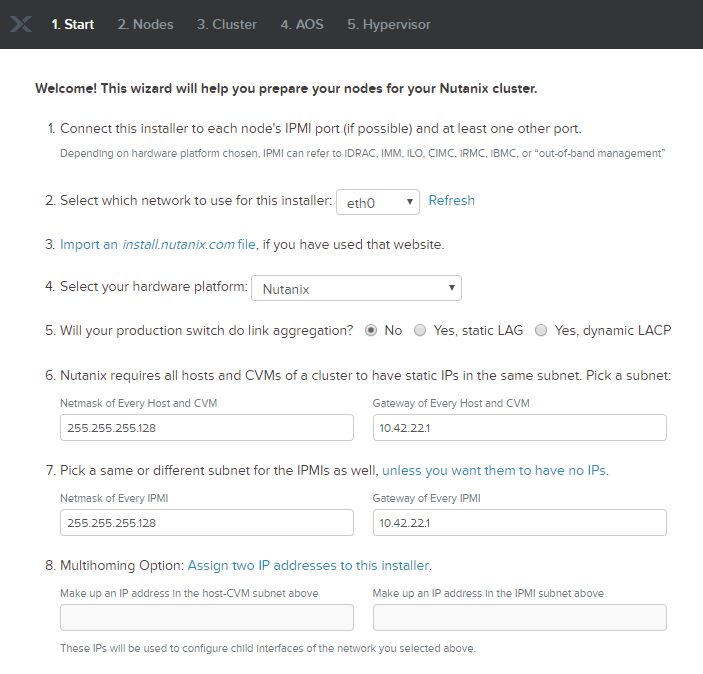
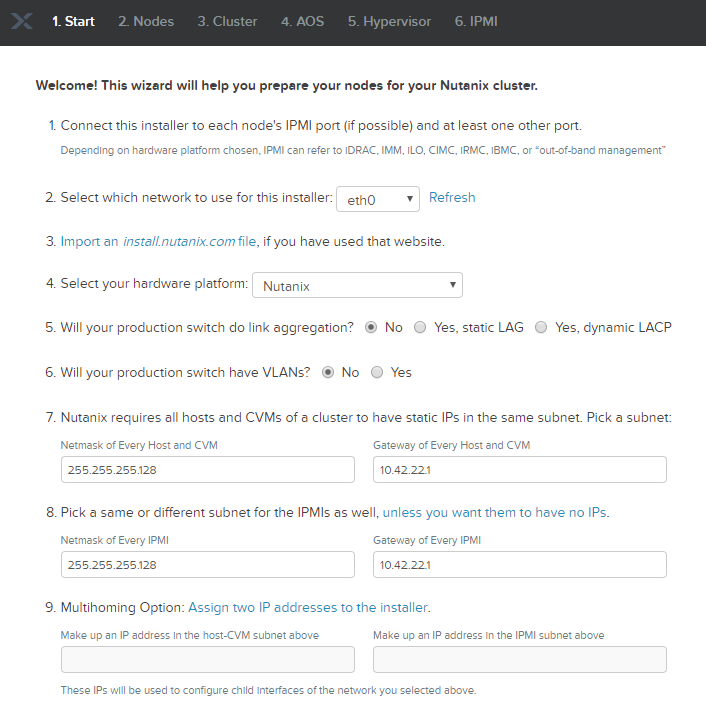
Foundation 4.3.4 and X-Ray 3.4 Updates

diff --git a/xray/xray.rst b/xray/xray.rst
@@ -42,32 +42,33 @@ The following links are provided for reference and not required to complete the 
 Configuring Target Cluster Networks
 +++++++++++++++++++++++++++++++++++
 
-Log into **Prism** on your 3-node **POC** cluster (10.42.\ *XYZ*\ .37).
+Log into **Prism Element** on the **3-node** cluster created in the previous lab (10.42.\ *XYZ*\ .37). This cluster will be used as an X-Ray target, meaning it will run worker VMs. It will **not** run the X-Ray VM.
 
 Open **Prism > VM > Table** and click **Network Config**.
 
 .. figure:: images/0.png
 
-Before creating the VM, we must first create a virtual network to assign to the Foundation VM. The network will use the Native VLAN assigned to the physical uplinks for all 4 nodes in the block.
+We will use the **Secondary** network VLAN for communication between the X-Ray VM and X-Ray worker VMs. This is accomplished via "Zero Configuration" networking, as the 3-node cluster **Secondary** and 1-node cluster **Secondary** networks are the same Layer 2 network and there is no DHCP.
 
 Click **Virtual Networks > Create Network**.
 
-Fill out the following fields and click **Save**:
-
-- **Name** - Primary
-- **VLAD ID** - 0
-
-Click **Create Network**. Using the `Cluster Details`_ spreadsheet, fill out the following fields and click **Save**:
+Using the `Cluster Details`_ spreadsheet, fill out the following fields and click **Save**:
 
 - **Name** - Secondary
 - **VLAD ID** - *<Secondary VLAN ID>*
 
 .. figure:: images/1.png
 
+.. note::
+
+   You can create the VLAN 0 network on this cluster as well, though it is not required for this exercise.
+
 Creating X-Ray VM
 +++++++++++++++++
 
-Log into **Prism** on your **NHTLab** 1-node cluster (10.42.\ *XYZ*\ .32).
+Next you will deploy the X-Ray VM outside of your cluster targeted for testing. This is to ensure X-Ray tests that perform power operations on hosts don't inadvertently power off the X-Ray VM itself.
+
+Log into **Prism Element** on your **1-node** cluster (10.42.\ *XYZ*\ .32).
 
 In **Prism > VM > Table** and click **+ Create VM**.
 
@@ -80,7 +81,7 @@ Fill out the following fields and click **Save**:
 - Select **+ Add New Disk**
 
   - **Operation** - Clone from Image Service
-  - **Image** - X-Ray
+  - **Image** - X-Ray.qcow2
   - Select **Add**
 - Select **Add New NIC**
 
@@ -93,27 +94,29 @@ Fill out the following fields and click **Save**:
 
 Select your **XRay** VM and click **Power on**.
 
+The X-Ray VM is created with 2 NICs. The **Primary** NIC allows for access to the web interface from any other routable network, and the **Secondary** network is only for communication between X-Ray and its worker VMs deployed on target clusters.
+
 .. note::
 
-  At the time of writing, X-Ray 3.3 is the latest available version. The URL for the latest X-Ray OVA & QCOW2 images can be downloaded from the `Nutanix Portal <https://portal.nutanix.com/#/page/static/supportTools>`_.
+  At the time of writing, X-Ray 3.4 is the latest available version. The URL for the latest X-Ray OVA & QCOW2 images can be downloaded from the `Nutanix Portal <https://portal.nutanix.com/#/page/static/supportTools>`_.
 
 Once the VM has started, click **Launch Console**.
 
-Click the **Network** icon in the upper right-hand corner of the XRay VM console and select **Ethernet (eth0) Connected > Wired Settings**.
+Click **Applications > System Tools > Settings** in the upper-left hand corner of the X-Ray VM console.
+
+.. figure:: images/2b.png
+
+Under **Network**, select :fa:`cog` under **Ethernet (eth0)**.
 
 .. note::
 
   It is critical that you select the network adapter assigned to the **Primary** network (you can confirm by comparing the MAC address in the VM console to the MAC address shown in Prism). We will use this network to assign a static IP to the X-Ray VM to access the web interface. We will NOT assign an address to the **Secondary** network adapter. This network will be used for zero configuration communication between the X-Ray VM and client VMs. This approach is helpful when DHCP isn't available or the DHCP scope isn't large enough to support X-Ray testing.
 
-.. figure:: images/2.png
-
-Select **Ethernet (eth0)** and click the **Gear Icon**.
-
 .. figure:: images/3.png
 
 Select **IPv4**. Using the `Cluster Details`_ spreadsheet, fill out the following fields and click **Apply**:
 
-- **Addresses** - Manual
+- **IPv4 Method** - Manual
 - **Address** - 10.42.\ *XYZ*\ .42
 - **Netmask** - 255.255.255.128
 - **Gateway** - 10.42.\ *XYZ*\ .1
@@ -125,7 +128,7 @@ Use the toggle switch to turn the **eth0** adapter off and back on to ensure the
 
 .. raw:: html
 
-  <strong><font color="red">Close the XRay VM console.</font></strong>
+  <strong><font color="red">Close the X-Ray VM console.</font></strong>
 
 Configuring X-Ray
 +++++++++++++++++
@@ -154,7 +157,9 @@ Click **Done**.
 
   If deploying X-Ray in an environment without internet access, tokens can be generated at https://my.nutanix.com/#/page/xray.
 
-Select **Targets** from the navigation bar and click **+ New Target**. Fill out the following fields and click **Next**:
+Next you will configure your 3-node cluster as the target for running X-Ray tests.
+
+Select **Targets** from the navigation bar and click **Add Target**. Fill out the following fields and click **Next**:
 
 - **Name** - *<3-Node Cluster Name>*
 - **Manager Type** - Prism
@@ -194,11 +199,11 @@ Running X-Ray Tests
 
 While X-Ray offers many testing options that evaluate critical Day 2+ scenarios, for lack of time, we will utilize a simple microbenchmark test in this exercise.
 
-Select **Tests** from the navigation bar and select **Four Corners Microbenchmark**.
+Select **Tests** from the navigation bar and select **Four Corners Microbenchmark > View & Run Test**.
 
 .. figure:: images/17.png
 
-Review the test description, then select your **POC-Cluster** under **Targets** and click **Add to Queue**.
+Review the test description, then select your **Test-Cluster** under **Choose test target** and click **Run Test**.
 
 .. figure:: images/18.png
 
@@ -206,13 +211,13 @@ Review the test description, then select your **POC-Cluster** under **Targets** 
 
   X-Ray can run one test per target at a time. Many tests can be queued for a single target, allowing X-Ray to automatically run through multiple tests without requiring manual intervention. Through automation, X-Ray can drastically decrease the amount of time to conduct a POC.
 
-Select **Results** from the navigation bar and select the **Four Corners Microbenchmark** under **In Progress Tests**.
+Select **Results** from the navigation bar and select the **In Progress** **Four Corners Microbenchmark** on your **Test-Cluster**.
+
+Click **Running** under **Status** for additional details on the running test.
 
 .. figure:: images/19.png
 
-Click **In progress** for additional details on the running test.
-
-When the test reaches the **Run** phase, log into Prism on your 3-node cluster to monitor VM performance during the test.
+When the test reaches the **Run** phase (**Phase 3 of 4**), log into Prism on your 3-node cluster to monitor VM performance during the test.
 
 .. figure:: images/20.png
 
@@ -220,7 +225,7 @@ When the test reaches the **Run** phase, log into Prism on your 3-node cluster t
 
   High storage latency is expected during the "pre-filling" stage prior to running the target workloads as X-Ray worker VMs are writing sequential 1MB blocks to their disks to ensure the tests do not read only zeroes.
 
-Upon completion of the test, select the **POC-Cluster Four Corners Microbenchmark** now located under **Completed Tests**.
+Upon completion of the test, select the **Finished Four Corners Microbenchmark** now located under **Results > All Results**.
 
 .. figure:: images/21.png
 
@@ -242,19 +247,21 @@ Download the following exported X-Ray test results:
 - :download:`Competitor Big Data Ingest Results<xray-big-data-competitor.zip>`
 - :download:`Nutanix Big Data Ingest Results<xray-big-data-nutanix.zip>`
 
-Select :fa:`cog` **> Import Test Results** from the navigation bar.
+Select :fa:`cog` **> Import Test Results Bundle** from the navigation bar.
 
-Click **Choose File** and select the Nutanix test results .zip file previously downloaded. Click **Import**.
+Click **Choose File** and select the Nutanix test results .zip file previously downloaded. Click **Upload**.
 
 .. figure:: images/23.png
 
 Repeat to import the Competitor test results .zip file.
 
-Select **Analyses** from the navigation bar and click **Create Analysis**.
+Refresh the **Results** page and note **NTNX** and **Competitor-X** Big Data Ingestion test results now appear in the list as finished.
+
+Select both tests and click **Create Comparison** to generate a comparison of the two sets of results.
 
 .. figure:: images/24.png
 
-Select the 2 **BigData Ingestion** results and click **Create**.
+Under **My Comparisons**, select the **Comparative Result Name** of your newly created comparison.
 
 .. figure:: images/25.png
 

diff --git a/groupfoundation/foundation.rst b/groupfoundation/foundation.rst
@@ -79,12 +79,14 @@ During the remainder of the exercise, your team will:
 - Install the Foundation VM on Node D
 - Use Foundation to image Nodes A, B, and C and create a 3 node cluster
 
-For the complete steps used to stage the environment, refer to :ref:`diyfoundation_lab`.
+.. note::
+
+   For the complete steps used to stage the environment, refer to the :ref:`diyfoundation_lab` Practice Lab.
 
 Installing Foundation
 +++++++++++++++++++++
 
-Open \https://*<NODE D CVM IP>*:9440 in your browser and log in with the following credentials:
+Open \https://*<CVM IP of NODE D>*:9440 in your browser and log in with the following credentials:
 
 - **Username** - admin
 - **Password** - techX2019!
@@ -102,12 +104,20 @@ Fill out the following fields and click **Save**:
 - **Name** - Primary
 - **VLAD ID** - 0
 
+.. note::
+
+   Using VLAN 0 (referred to as an **Untagged** or **Access** network) is equivalent to running a Foundation VM on your laptop, with a bridged network connection to your physical Ethernet adapter, plugged into a flat, unmanaged switch connected to your Nutanix block being imaged.
+
 Click **Create Network**. Using the `Cluster Details`_ spreadsheet, fill out the following fields and click **Save**:
 
 - **Name** - Secondary
 - **VLAD ID** - *<Secondary VLAN ID>*
 
 .. figure:: images/00.png
+
+.. note::
+
+   The **Secondary** network will be used later in the :ref:`groupxray_lab` lab.
 
 In **Prism > VM > Table** and click **+ Create VM**.
 
@@ -120,7 +130,7 @@ Fill out the following fields and click **Save**:
 - Select **+ Add New Disk**
 
   - **Operation** - Clone from Image Service
-  - **Image** - Foundation
+  - **Image** - Foundation.qcow2
   - Select **Add**
 - Select **Add New NIC**
 
@@ -131,7 +141,7 @@ Select your **Foundation** VM and click **Power on**.
 
 .. note::
 
-  At the time of writing, Foundation 4.3.1 is the latest available version. The URL for the latest Foundation VM QCOW2 image can be downloaded from the `Nutanix Portal <https://portal.nutanix.com/#/page/foundation>`_.
+  At the time of writing, Foundation 4.3.4 is the latest available version. The URL for the latest Foundation VM QCOW2 image can be downloaded from the `Nutanix Portal <https://portal.nutanix.com/#/page/foundation>`_.
 
   **Unless otherwise directed by support, always use the latest version of Foundation.**
 
@@ -155,7 +165,7 @@ Select **eth0** and press **Return**.
 
 Using the `Cluster Details`_ spreadsheet, replace the octet(s) that correspond to your HPOC network, fill out the following fields, select **OK** and press **Return**:
 
-- **Use DHCP** - Press **Space** to de-select
+- Un-select **Use DHCP** by pressing **Space**
 - **Static IP** - *<Foundation VM IP>*
 - **Netmask** - 255.255.255.128
 - **Gateway** - *<Gateway IP>*
@@ -194,6 +204,12 @@ On the **Start** page, fill out the following fields:
 - **Select which network to use for this installer** - eth0
 - **Select your hardware platform** - Nutanix
 - **Will your production switch do link aggregation?** - No
+- **Will your production switch have VLANs** - No
+
+.. note::
+
+   Selecting **Yes** will allow you to tag the CVM/Hypervisor VLAN as part of the installation, saving additional steps post-Foundation for readying the cluster to cutover to a production network. It is common for the Ethernet uplinks for each node to be connected to trunked ports tagged for several VLANs (CVM/Hypervisor network, user VM networks, backup network, etc.).
+
 - **Netmask of Every Host and CVM** - 255.255.255.128
 - **Gateway of Every Host and CVM** - 10.42.\ *XYZ*\ .1
 - **Netmask of Every IPMI** - 255.255.255.128
@@ -231,6 +247,10 @@ Fill out the following fields and click **Add Nodes**:
 
 Using the `Cluster Details`_ spreadsheet, fill out the following fields for **Nodes A, B, and C ONLY** and click **Next**:
 
+.. note::
+
+  Use **Tools > Range Autofill** to quickly specify Node IPs. Specify the first IP in the field at the top of the table to provide enumerated values for the entire column.
+
 - **Node** - *<Node Position>*
 - **IPMI MAC** - *<IPMI MAC>*
 - **IPMI IP** - *<IPMI IP>*
@@ -239,10 +259,6 @@ Using the `Cluster Details`_ spreadsheet, fill out the following fields for **No
 - **Hypervisor Hostname** - *<Hypervisor Hostname>*
 
 .. figure:: images/10.png
-
-.. note::
-
-  Use **Tools > Range Autofill** to quickly specify Node IPs. Specify the first IP in the field at the top of the table to provide enumerated values for the entire column.
 
 .. note::
 
@@ -273,7 +289,7 @@ Using the `Cluster Details`_ spreadsheet, replace the octet(s) that correspond t
 
 .. figure:: images/11.png
 
-Download your desired AOS package from http://10.42.8.50/aos/.
+From within the Foundation VM console, download your desired AOS package from http://10.42.194.11/workshop_staging/nht/.
 
 By default, Foundation does not have any AOS or hypervisor images. To upload AOS or hypervisor files, click **Manage AOS Files**.
 
@@ -285,7 +301,11 @@ Click **+ Add > Choose File**. Select your downloaded *nutanix_installer_package
 
 .. note::
 
-  If downloading the AOS package within the Foundation VM, the .tar.gz package can also be moved to ~/foundation/nos rather than uploaded to Foundation through the web UI. After moving the package into the proper directory, click **Manage AOS Files > Refresh**.
+  If downloading the AOS package within the Foundation VM, the .tar.gz package can also be moved to ~/foundation/nos rather than uploaded to Foundation through the web UI.
+
+  .. figure:: images/12.png
+
+  After moving the package into the proper directory, click **Manage AOS Files > Refresh** to discover the manually staged AOS package.
 
 After the upload completes, click **Close**. Click **Next**.
 

diff --git a/diyfoundation/diyfoundation.rst b/diyfoundation/diyfoundation.rst
@@ -116,11 +116,11 @@ Fill out the following fields and click **Save**:
 - **Image Type** - Disk
 - **Storage Container** - default-container
 - Select **From URL**
-- **Image Source** - http://download.nutanix.com/foundation/foundation-4.3.1/Foundation_VM-4.3.1-disk-0.qcow2
+- **Image Source** - http://download.nutanix.com/foundation/foundation-4.3.1/Foundation_VM-4.3.4-disk-0.qcow2
 
 .. note::
 
-  At the time of writing, Foundation 4.3.1 is the latest available version. The URL for the latest Foundation VM QCOW2 image can be downloaded from the `Nutanix Portal <https://portal.nutanix.com/#/page/foundation>`_.
+  At the time of writing, Foundation 4.3.4 is the latest available version. The URL for the latest Foundation VM QCOW2 image can be downloaded from the `Nutanix Portal <https://portal.nutanix.com/#/page/foundation>`_.
 
   **Unless otherwise directed by support, always use the latest version of Foundation.**
 
@@ -208,6 +208,7 @@ On the **Start** page, fill out the following fields, replacing the octet(s) tha
 - **Select which network to use for this installer** - eth0
 - **Select your hardware platform** - Nutanix
 - **Will your production switch do link aggregation?** - No
+- **Will your production switch have VLANs** - No
 - **Netmask of Every Host and CVM** - 255.255.255.128
 - **Gateway of Every Host and CVM** - 10.42.\ *XYZ*\ .1
 - **Netmask of Every IPMI** - 255.255.255.128
